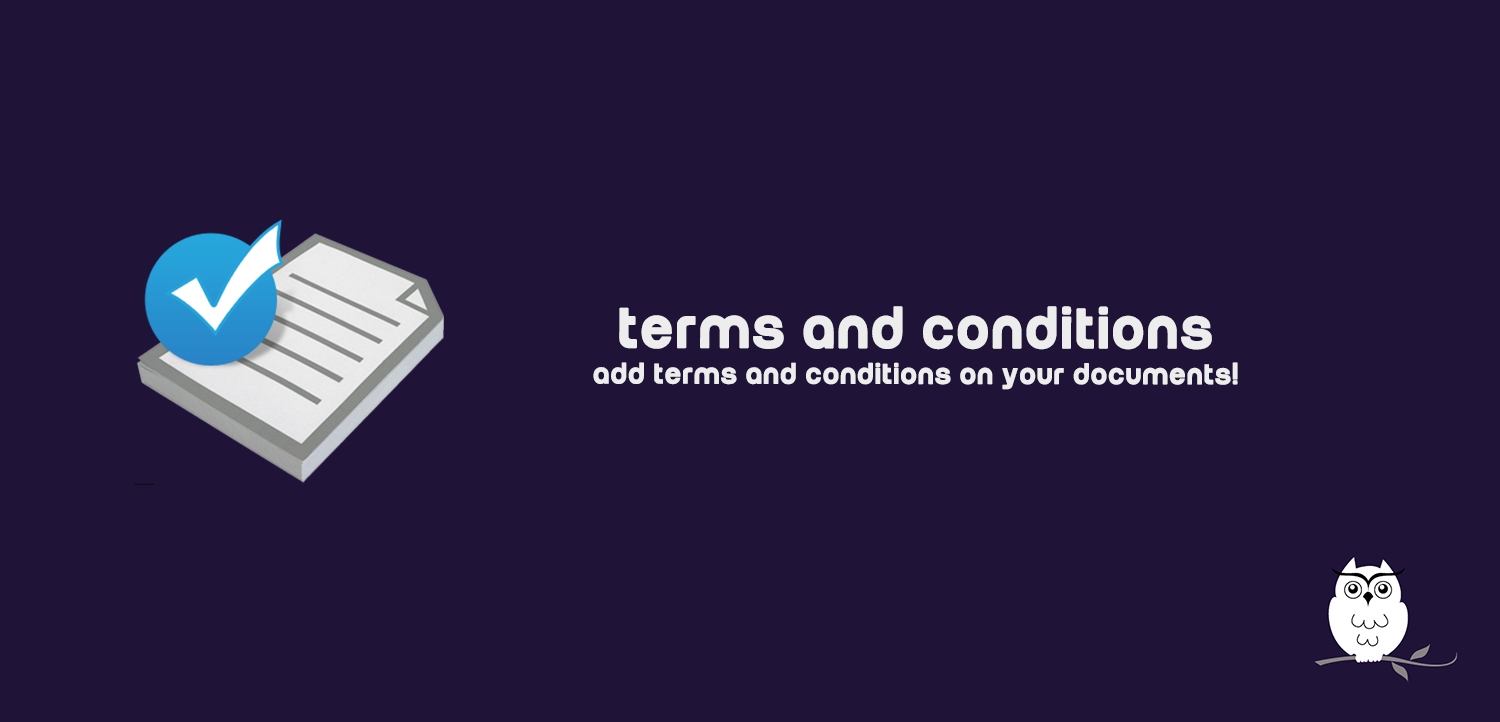
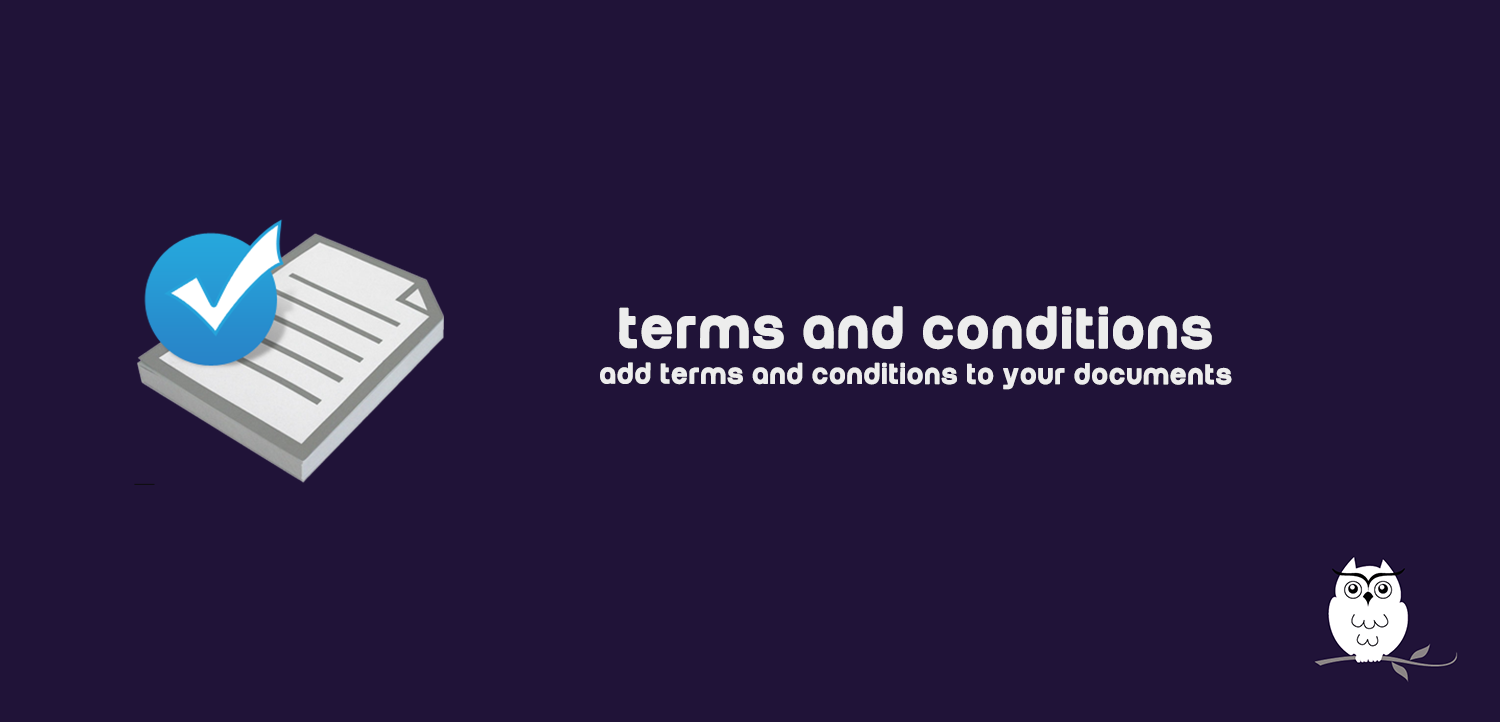
NIB-99: Check spelling and grammar

Changed region(s): [[0.3987, 0.4875, 0.828, 0.5485]]

diff --git a/terms_conditions/static/description/index.html b/terms_conditions/static/description/index.html
@@ -10,7 +10,7 @@
         <section class="oe_container">
             <div class="oe_row oe_spaced">
                 <h2 class="oe_slogan">Documents - Terms and Conditions</h2>
-                <h3 class="oe_slogan">Add Terms and Conditions on your documents!</h3>
+                <h3 class="oe_slogan">Add Terms and Conditions to your documents!</h3>
                 <div class="oe_span6" style="display: block; margin: 0 auto; height:400px;">
                     <div style="display: inline-block; position: relative; z-index: 1;">
                         <img src="screen_niboo.png" style="margin: 0 auto; display: block; width: 425px;">
@@ -21,7 +21,7 @@
                     <div>
                         <p>This module allows you to add personalized signatures (e.g: Terms and Conditions) to your documents.</p>
                         <p>Different signatures can be set according to the type of report.</p>
-                        <p>The signature changes accordingly with the language chosen.</p>
+                        <p>The signature changes according to the language chosen.</p>
                     </div>
                 </div>
             </div>
@@ -43,7 +43,7 @@
                 </a>
                 <div class="oe_span6">
                     <h2>About Niboo</h2>
-                    Niboo is a technology company, specialized in developing business solutions on your needs. Niboo combines expertise in both IT and management consulting. As an active partner in the Odoo Community, Niboo also contributes to the evolution of the open-source business solutions.
+                    Niboo is a technology company, specialized in developing business solutions to your needs. Niboo combines expertise in both IT and management consulting. As an active partner in the Odoo Community, Niboo also contributes to the evolution of open-source business solutions.
                 </div>
             </div>
         </section>
@@ -52,25 +52,26 @@
         <h2 class="oe_slogan">User guide</h2>
         <section class="oe_container">
             <div class="oe_row oe_spaced">
-                <h3 class="oe_slogan">How to upload the signature file wanted?</h3>
+                <h3 class="oe_slogan">How to upload the desired signature file</h3>
                 <div><img class="img img-responsive oe_span6" src="upload_file.png"/></div>
                 <ol class="oe_span6" style="font-size: 15px">
-                    <li>Go to Settings/General Settings, then click on "Configure your company data".</li>
-                    <li>Go in "Sales Agreement" and click on "Edit".</li>
-                    <li>Click on "Add item" and upload a pdf file containing your signature. Do it for each of the desiderated languages.</li>
+                    <li>Go to Settings > General Settings, then click on <b>Configure your company data</b></li>
+                    <li>In <b>Sales Agreement</b>, click on <b>Edit</b></li>
+                    <li>Click on <b>Add item</b> and upload a PDF file containing your signature</li>
+                    <li>Repeat this for each of the desired languages</li>
                 </ol>
             </div>
         </section>
 
         <section class="oe_container oe_dark">
             <div class="oe_row oe_spaced">
-                <h3 class="oe_slogan">How to choose to which kind of reports attach the signature?</h3>
+                <h3 class="oe_slogan">How to choose the reports that should contain the signature</h3>
                 <ol class="oe_span6" style="font-size: 15px">
-                    <li>In developer mode, go to Settings/Technical, and in the drop down menu choose "Reports".</li>
-                    <li>Click on the kind of report you want your signature attached to.</li>
-                    <li>Go in "Sales Agreement" and click on "Edit".</li>
-                    <li>Check the "Attach terms and Conditions to this report" box (only visible if you have clicked on edit or if the box is already checked).</li>
-                    <li>Put the name of the language field of your kind of report.</li>
+                    <li>In <b>Debug Mode</b>, go to Settings > Technical, choose <b>Reports</b> in the drop down menu</li>
+                    <li>Click on the report you would like to attach your signature to</li>
+                    <li>In <b>Sales Agreement</b>, click on <b>Edit</b></li>
+                    <li>Check the box <b>Attach Terms and Conditions to this report</b> (only visible if you are in <b>edit mode</b> or if the box is already checked</li>
+                    <li>Choose the name of the technical <b>language field</b> of your chosen report</li>
                 </ol>
                 <div><img class="img img-responsive oe_span6" src="lang_field.png"/></div>
             </div>

diff --git a/terms_conditions/__openerp__.py b/terms_conditions/__openerp__.py
@@ -4,7 +4,7 @@
 # License AGPL-3.0 or later (https://www.gnu.org/licenses/agpl.html).
 {
     'name': 'Documents - Terms and Conditions',
-    'summary': 'Add Terms and Conditions on your documents !',
+    'summary': 'Add Terms and Conditions to your documents',
     'version': '9.0.1.0.0',
     'author': 'Niboo',
     'category': 'Document Management',
